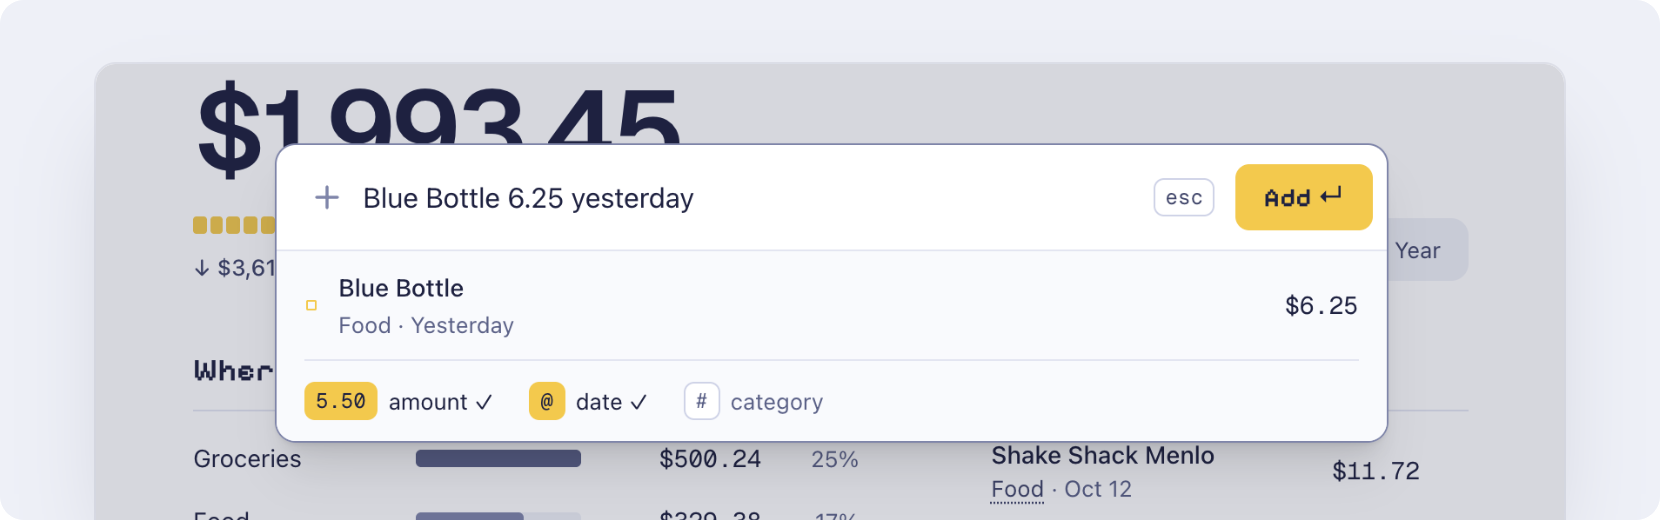
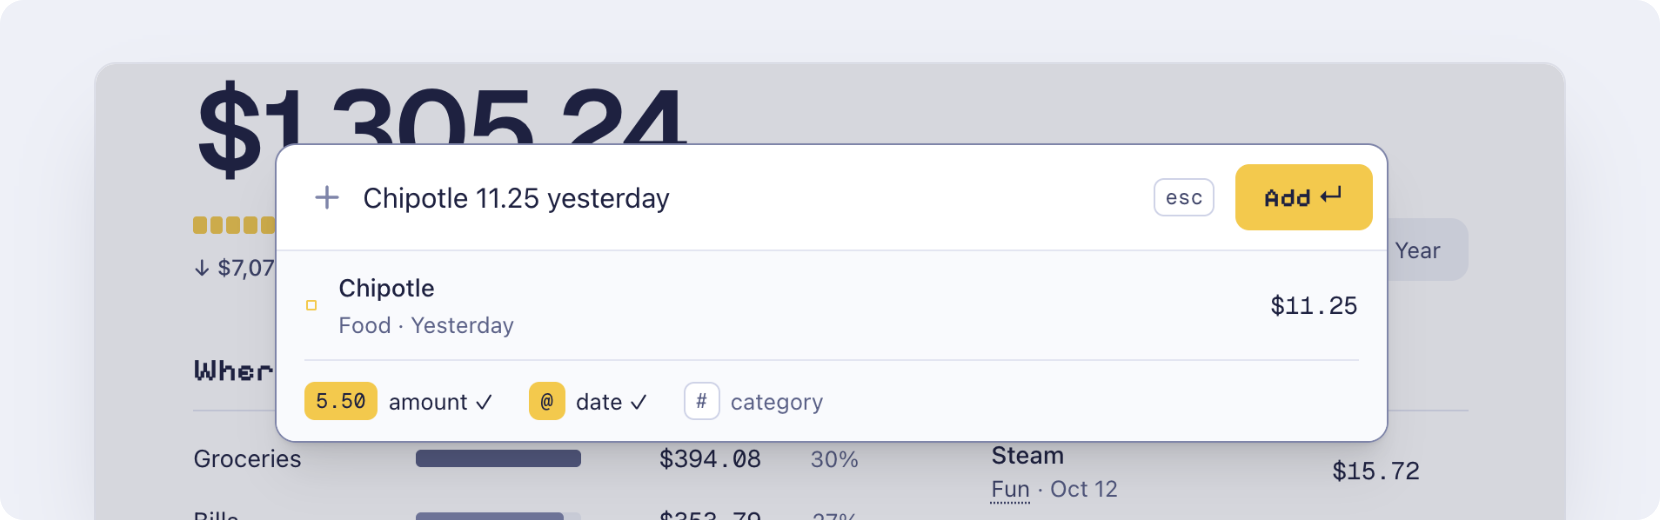
docs(readme): explain why MoneyPouch exists and why SimpleFIN is safe for bank sync (#72)
* docs(readme): explain why MoneyPouch exists and why SimpleFIN is safe for bank sync

* docs(readme): show the Chipotle example in the composer screenshot

diff --git a/README.md b/README.md
@@ -19,27 +19,40 @@
   <img src="docs/images/overview.png" alt="The MoneyPouch Overview, with October spending by category and the latest transactions">
 </p>
 
-## Why MoneyPouch?
+## Why I built MoneyPouch
+I was first using Excel to track my expenses via a simple layout that summed up spending and income based on categories. This was bothersome to set up and the appearance/UI was also ugly (maybe I'm just bad with excel as well). So I looked into other popular finance apps, but most of them want you to budget, and that leads to bloated features that overwhelm someone who just wants to track where their money is going. YNAB makes you give every dollar a job before you spend it. Monarch and Copilot add investment tracking, net worth and bank syncing on top of budgets, and both cost about $100 a year. Rocket Money is built around subscriptions and bill negotiation, and the self-hosted options are either another envelope budgeting tool (Actual Budget) or full double-entry accounting (Firefly III). I didn’t need any of that and I also was not going to pay for something like that. I wanted a fast, good-looking way to log an expense in a few seconds and see where my money goes. So I built MoneyPouch.
 
-Most finance apps want you to budget. MoneyPouch only asks what you spent, and makes typing it in faster than opening your bank's app.
-
-- **Fast entry.** Press ⌘K (Ctrl+K), type `Blue Bottle 6.25 yesterday`, and press Enter.
+## What
+- **Fast entry.** Press ⌘K (Ctrl+K), type `Chipotle 11.25 yesterday`, and press Enter.
 - **It remembers.** Tab completes names you have used, and their category comes back.
 - **Your data, your server.** One container and one SQLite file, in a volume you own.
-- **Bank sync, optional.** Connect your own SimpleFIN account to pull in transactions.
+- **Bank sync, optional.** Connect your own SimpleFIN account to pull in transactions from your bank accounts.
 
 ## Type it like you'd say it
 
 <p align="center">
-  <img src="docs/images/composer.png" alt="The composer reads Blue Bottle 6.25 yesterday as $6.25 at Blue Bottle, in Food, yesterday">
+  <img src="docs/images/composer.png" alt="The composer reads Chipotle 11.25 yesterday as $11.25 at Chipotle, in Food, yesterday">
 </p>
 
 | | You type | MoneyPouch reads |
 | :--- | :--- | :--- |
-| **Amount** | `6.25` `$6.25` `1,650` | Money out |
-| **Money in** | `+2000` | Income, not spending |
-| **Date** | `yesterday` `sep 26` `friday` | That day, or today if left out |
-| **Category** | `#food` | Food, or that name's last category |
+| **Amount** | `6.25` `$6.25` `1,650` | this is an expense/spending |
+| **Money in** | `+2000` | income, not spending |
+| **Date** | `yesterday` `sep 26` `friday` | that day, or today if left out |
+| **Category** | `#food` | food, or if left out, the category you last used for that name |
+
+## Bank sync with SimpleFIN
+
+Bank sync is optional but highly recommended. When you turn it on, MoneyPouch reads your transactions through [SimpleFIN](https://www.simplefin.org/), an open protocol for sharing read-only financial data with apps. Here is why you can trust SimpleFIN:
+
+1. **Read-only.** The [protocol](https://www.simplefin.org/protocol.html) has no way to move money. MoneyPouch can see your transactions, and that's all.
+2. **Your bank login never reaches MoneyPouch.** You add your bank on the [SimpleFIN Bridge](https://bridge.simplefin.org), not in MoneyPouch. The Bridge hands bank connections to [MX](https://www.mx.com/) and says bank credentials never touch its own servers ([security](https://beta-bridge.simplefin.org/info/security)).
+3. **One-time tokens.** You paste a setup token into MoneyPouch, which trades it once for a private access URL. A token that has already been used stops working, so a copied token is useless.
+4. **Stored encrypted, on your server.** MoneyPouch encrypts the access URL in your own database. Nothing passes through a MoneyPouch service, because there isn't one.
+5. **You can cut it off.** Revoke MoneyPouch's access on the Bridge at any time, or disconnect in MoneyPouch's Settings, which deletes the access URL.
+6. **Open about problems.** SimpleFIN publishes its incidents, including an MX bug in May 2026 that briefly showed some users each other's transactions. Bank credentials were not exposed.
+
+The Bridge is a paid service, billed by SimpleFIN directly ([pricing](https://beta-bridge.simplefin.org/)). Read its [privacy policy](https://beta-bridge.simplefin.org/info/privacy) and [terms](https://beta-bridge.simplefin.org/info/terms) before you connect.
 
 ## Quickstart
 
